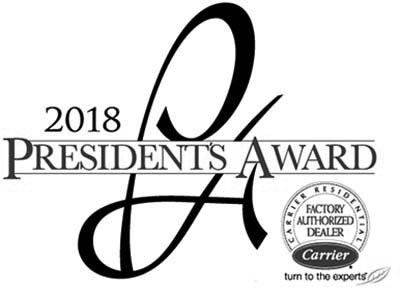
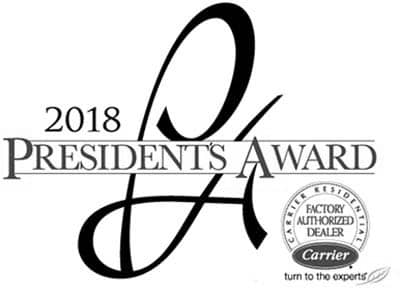
optimized some remaining images, turned on the purgecss settings

diff --git a/postcss.config.js b/postcss.config.js
@@ -4,12 +4,12 @@ const purgecss = require('@fullhuman/postcss-purgecss')
 module.exports = {
   plugins: [
     autoprefixer(),
-    // purgecss({
-    //   content: [
-    //     './layouts/**/*.html',
-    //     './layouts/**/*.svg',
-    //     './content/**/*.md',
-    //   ],
-    // }),
+    purgecss({
+      content: [
+        './layouts/**/*.html',
+        './layouts/**/*.svg',
+        './content/**/*.md',
+      ],
+    }),
   ],
 }

diff --git a/layouts/partials/hero.html b/layouts/partials/hero.html
@@ -1,5 +1,5 @@
 {{ if eq .Title "Home" }}
-<div class="hero {{ lower .Page.Title }}-hero w-100" data-scroll-section>
+<div class="hero home-hero w-100" data-scroll-section>
   <div class="hero__inner container-wide flex flex-column flex-row-m flex-center">
     <div class="w-100 w-60-m">
       <h1>{{ .Params.HeroTitle }}</h1>

diff --git a/assets/scss/utilities/_awards.scss b/assets/scss/utilities/_awards.scss
@@ -7,3 +7,6 @@
     padding: 1rem;
   }
 }
+.test {
+  display: none;
+}
